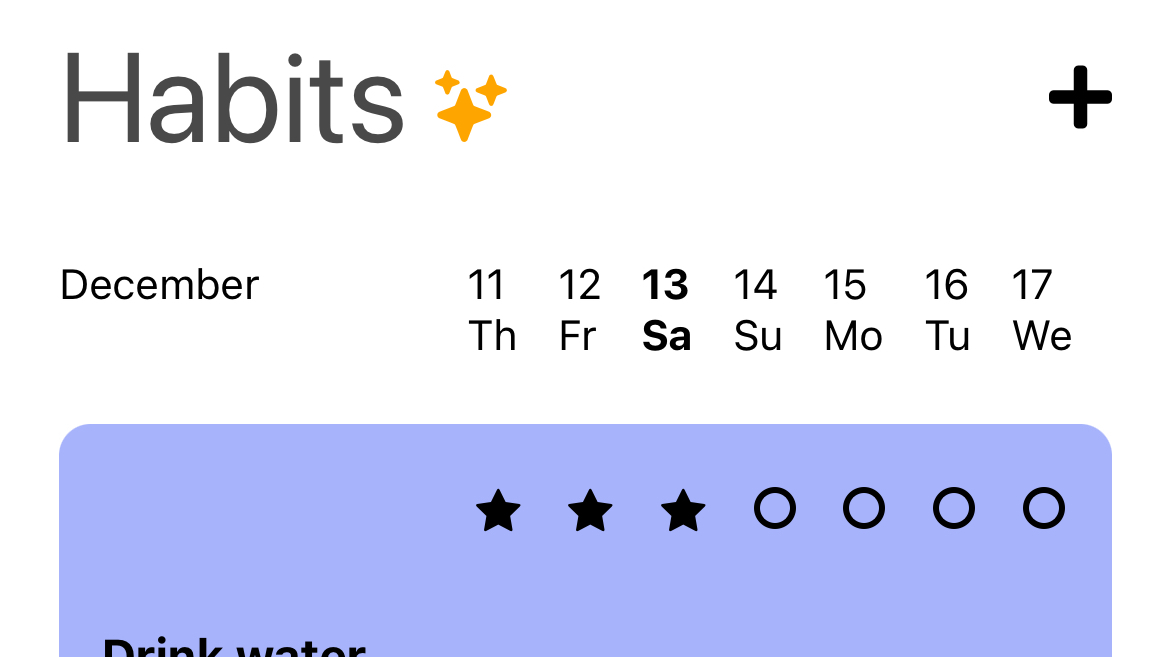
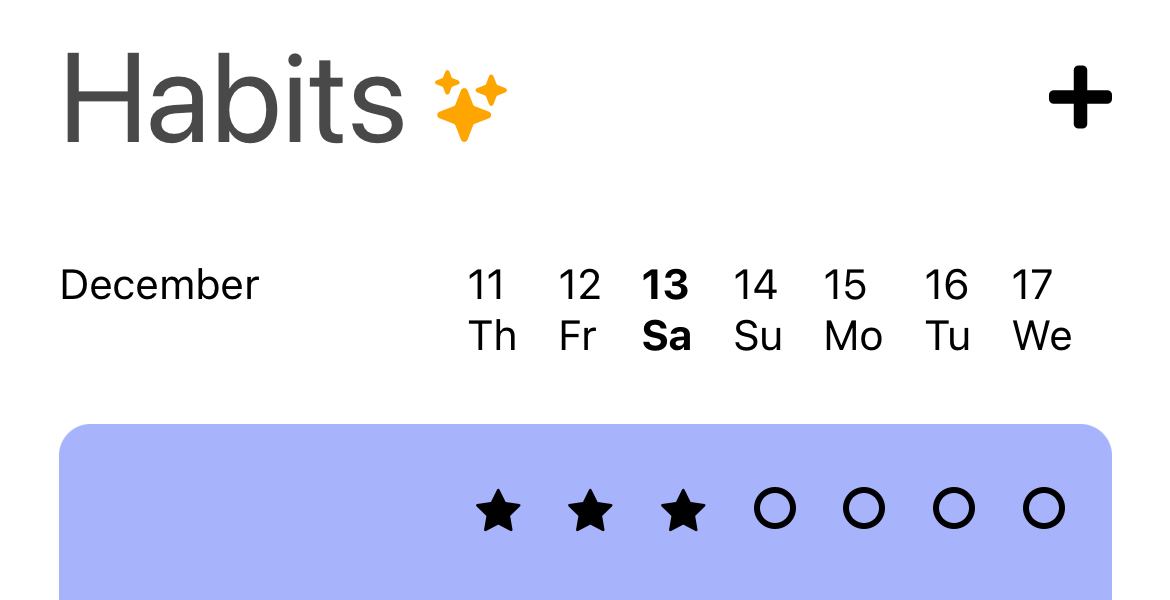
style: size and frame blog screenshots
The migrated screenshots are wide crops exported at ~1150px. At the full
content width they rendered the app's own text larger than the post
headline. Caps them well below the column, centres them, and adds a
border so a white app screen does not bleed into the page. Captions are
centred and muted to sit with their image rather than float as body text.

Also trims the sliced text from the foot of the habits screenshot, and
adds an opening line to the AI Activity Summary post, which until now
was three captions with no prose. Both are worth a second look — the
crop and the wording are mine, not the original's.

Claude-Session: https://claude.ai/code/session_01RLD2LSJwCAUXRqcYzmcHAJ

diff --git a/assets/css/extended/blog.css b/assets/css/extended/blog.css
@@ -1,0 +1,31 @@
+/* Blog post screenshots.
+
+   The migrated screenshots are wide crops of phone UI, exported at ~1150px.
+   Shown at the full content width they render the app's own text larger than
+   the post's headline, so they are capped well below the column width and
+   centred. The border keeps a white app screen from bleeding into the page. */
+.post-content figure {
+  margin: 2.2rem auto;
+  text-align: center;
+}
+
+.post-content figure img {
+  width: 100%;
+  max-width: 520px;
+  height: auto;
+  display: block;
+  margin-inline: auto;
+  border: 1px solid var(--border);
+  border-radius: 12px;
+}
+
+.post-content figure figcaption {
+  margin-top: 0.6rem;
+  font-size: 0.85rem;
+  color: var(--secondary);
+  text-align: center;
+}
+
+.post-content figure figcaption p {
+  margin: 0;
+}

diff --git a/content/blog/2026-02-01-introducing-ai-activity-summary-reflect-learn-grow.md b/content/blog/2026-02-01-introducing-ai-activity-summary-reflect-learn-grow.md
@@ -6,6 +6,9 @@ draft: false
 summary: "A new summary of your activity, generated at the start of every month."
 ---
 
+Look back on your habits and achievements from the past month. Turn it on in
+Settings, and a new summary arrives at the beginning of every month.
+
 {{< figure src="/images/blog/ai-activity-summary/enable-activity-summary.png" alt="Settings screen with the Activity Summary toggle switched on" caption="Enable Activity Summary" >}}
 
 {{< figure src="/images/blog/ai-activity-summary/monthly-summary.png" alt="A generated summary for December 2025" caption="See a new summary generated at the beginning of every month" >}}
